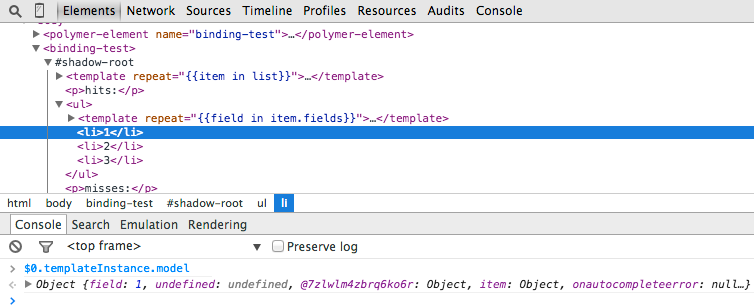
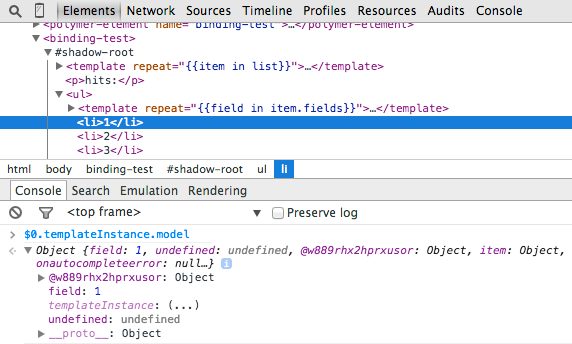
Update to address comments.
Also: fix formatting, add TOC macro, improve screen shot.

Changed region(s): [[0.0, 0.0, 1.0, 0.9935], [0.0, 0.9643, 0.0297, 0.9935]]

diff --git a/docs/polymer/debugging.md b/docs/polymer/debugging.md
@@ -7,15 +7,18 @@ title: Debugging tips and tricks
 subtitle: Guide
 ---
 
+{% include toc.html %}
+
 Since the Web Components standards are relatively new, and not implemented in all browsers, debugging web components such as Polymer elements can be a challenge.
 
-Chrome 36 and later includes native support for web components, and improved support for debugging them in DevTools. Opera 23 and later also includes native support for web components.
+Chrome 36 and later includes native support for web components, and improved support for debugging them in Chrome DevTools. Opera 23 and later also includes native support for web components.
 
 Many of the techniques described here can be used on browsers without native web components support, with a few adjustments. For details, see [Debugging under the polyfills](#polyfills).
 
 ## Inspecting HTML imports
 
-To see the contents of an HTML import in the **Elements** panel, expand the `<link>` tag. The import contents appear as a nested `#document` node.
+To see the contents of an HTML import in the **Elements** panel, expand the `<link>` tag in the DOM tree view. 
+The import contents appear as a nested `#document` node.
 
 ![HTML import link expanded in DevTools Elements panel](/images/debugging/html-import.png)
 
@@ -90,28 +93,28 @@ Wherever possible, omit the tag name from the `Polymer` call. Since Polymer 0.4.
 
 ### Unregistered element bookmarklet
 
-To quickly check whether elements are registered, you can use this bookmarklet (written by Aleks Totic and [Eric Bidelman](twitter.com/ebidel)):
+To quickly check whether elements are registered, you can use this bookmarklet (written by [Aleks Totic](https://twitter.com/atotic) and [Eric Bidelman](twitter.com/ebidel)):
 
-[https://gist.github.com/ebidel/cea24a0c4fdcda8f8af2](https://gist.github.com/ebidel/cea24a0c4fdcda8f8af2)
+<a href="javascript:(function(){function isUnregisteredCustomElement(el){if(el.constructor==HTMLElement){console.error('Found unregistered custom element:',el);return true;}return false;}function isCustomEl(el){return el.localName.indexOf('-')!=-1||el.getAttribute('is');}var allCustomElements=document.querySelectorAll('html /deep/ *');allCustomElements=Array.prototype.slice.call(allCustomElements).filter(function(el){return isCustomEl(el);});var foundSome=false;for(var i=0,el;el=allCustomElements[i];++i){if(isUnregisteredCustomElement(el)){foundSome=true;}}if(foundSome){alert('Oops: found one or more unregistered custom elements in use! Check the console.');}else{alert('Good: All custom elements are registered :)');}})();">Check for Unregistered Elements</a>
 
-The bookmarklet checks for element that are look like custom elements, but have the generic `HTMLElement` constructor. An element "looks like" a custom element if it has a dash in its name or uses the `is` attribute:
+The bookmarklet checks for element that look like custom elements, but have the generic `HTMLElement` constructor. An element "looks like" a custom element if it has a dash in its name or uses the `is` attribute:
 
     <paper-button></paper-button>
     <form is="ajax-form></form>
 
 Since this method doesn't use any Polymer APIs, it works for any custom element, Polymer or otherwise. 
 
-To add the bookmarklet in Chrome:
+To add the bookmarklet to your browser, drag the <a href="javascript:(function(){function isUnregisteredCustomElement(el){if(el.constructor==HTMLElement){console.error('Found unregistered custom element:',el);return true;}return false;}function isCustomEl(el){return el.localName.indexOf('-')!=-1||el.getAttribute('is');}var allCustomElements=document.querySelectorAll('html /deep/ *');allCustomElements=Array.prototype.slice.call(allCustomElements).filter(function(el){return isCustomEl(el);});var foundSome=false;for(var i=0,el;el=allCustomElements[i];++i){if(isUnregisteredCustomElement(el)){foundSome=true;}}if(foundSome){alert('Oops: found one or more unregistered custom elements in use! Check the console.');}else{alert('Good: All custom elements are registered :)');}})();">Check for Unregistered Elements</a> 
+link to the bookmarks toolbar or Favorites bar. (The bookmarks toolbar or Favorites bar must already be displayed.)
 
-1.  Open [https://gist.github.com/ebidel/cea24a0c4fdcda8f8af2](https://gist.github.com/ebidel/cea24a0c4fdcda8f8af2) in a browser tab.
-2.  Click the **Raw** button next to  unregistered_custom_elements.bookmarklet.js.
-3.  Select and copy the JavaScript.
-4.  Press Control+D (Command+D on OS X) to bookmark the current page.
-5.  Click **Edit**.
-6.  Replace the bookmark URL with the copied JavaScript.
-7.  Set the bookmark title to something meaningful (such as **Unregistered Elements**).
 
-Click the bookmark to check the current page for unregistered elements.
+You can see the complete code for the bookmarklet here:
+
+[https://gist.github.com/ebidel/cea24a0c4fdcda8f8af2](https://gist.github.com/ebidel/cea24a0c4fdcda8f8af2)
+
+
+Click the bookmark to check the current page for unregistered elements. The bookmarklet displays an alert showing the 
+page status. In the case of missing imports, more detailed information is logged to the console.
 
 In the case of a missing HTML import, the bookmarklet lists the element with a missing import.
 
@@ -162,7 +165,7 @@ In the case of nested templates, copies of the inner templates appear in the DOM
 
     <polymer-element name="binding-test">
       <template>
-        <template repeat="{{item in list}}">
+        <template repeat="{%raw%}{{item in list}}{%endraw%}">
           <p>{{item.name}}:</p>
           <ul>
           <template repeat="{{field in item.fields}}">
@@ -190,18 +193,19 @@ This generates a DOM structure like the following:
 ![DevTools showing DOM structure](/images/debugging/bound-dom.png)
 
 The numbers in the diagram identify elements of the DOM structure:
-Root of the element's shadow DOM tree. 
-Outer `<template repeat>`. 
-DOM nodes generated by the outer `<template repeat>`, representing a single item.
-Inner `<template repeat>`. Note that one copy appears in the DOM for each item in the outer `<template repeat>`. 
-Generated DOM nodes from the inner `<template repeat>`.
+
+1.  Root of the element's shadow DOM tree. 
+2.  Outer `<template repeat>`. 
+3.  DOM nodes generated by the outer `<template repeat>`. Highlighted box shows the nodes representing the first item.
+4.  Inner `<template repeat>`. Note that one copy appears in the DOM for each item in the outer `<template repeat>`. 
+5.  Generated DOM nodes from the inner `<template repeat>`.
 
 To inspect the data bound to a template:
 
 1.  In the **Elements** panel, select the template tag in the element's shadow root.
 2.  In the **Console**, type:
 
-		    $0.model
+        $0.model
 
     On browsers without native shadow DOM, add the `wrap` function:
 
@@ -213,19 +217,19 @@ To inspect the data bound to a template:
 
 The `model` property returns the template's scope object, which contains all the identifiers that are in scope for the current template. For the outermost template, this is the custom element itself.
 
-To inspect the data used to create a generated node:
+To inspect the data used to **create** a generated node:
 
 1.  In the **Elements** panel, select the generated node.
 2.  In the **Console**, type:
 
-		    $0.templateInstance.model
+        $0.templateInstance.model
 
-    ![DevTools console](/images/debugging/templateinstance-model.png)
 
-	   On browsers without native shadow DOM, add the `wrap` function:
+    On browsers without native shadow DOM, add the `wrap` function:
 
         wrap($0).templateInstance.model
 
+![DevTools console](/images/debugging/templateinstance-model.png)
 
 `templateInstance.model` returns the data used to generate the DOM nodes. In this case, it includes the `item` object corresponding to the first item in the list.
 
